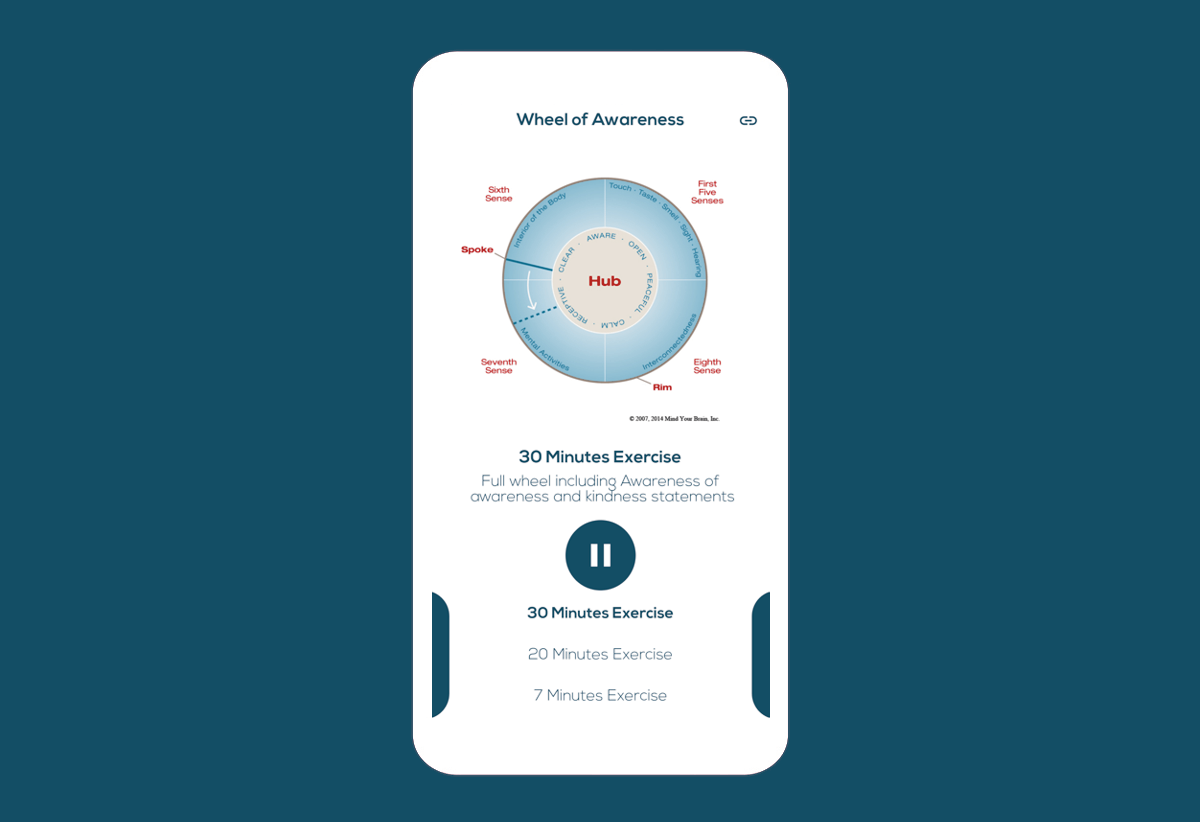
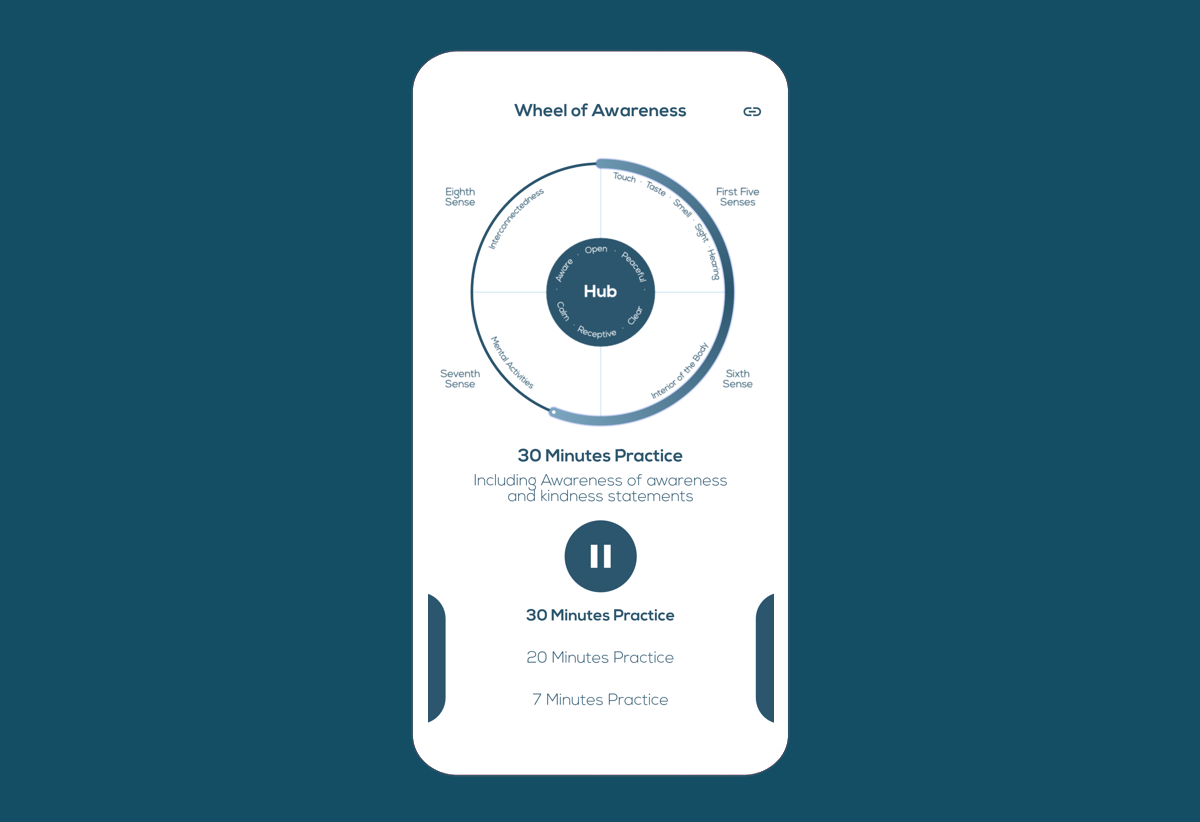
replaced wheel image

diff --git a/lib/main.dart b/lib/main.dart
@@ -60,10 +60,10 @@ class _HomeState extends State<HomePage> {
         initialValue: position,
         max: duration,
         appearance: CircularSliderAppearance(
-            size: (MediaQuery.of(context).size.width * 0.47),
+            size: 300,
             angleRange: 360,
             startAngle: 270,
-            customWidths: CustomSliderWidths(progressBarWidth: 8),
+            customWidths: CustomSliderWidths(progressBarWidth: 10, trackWidth: 3),
             customColors: CustomSliderColors(
                 trackColor: widget.primarySwatch,
                 progressBarColors: [Color(0xFF2C566E), Color(0xFFADD6F2)]),
@@ -87,9 +87,9 @@ class _HomeState extends State<HomePage> {
                 Center(
                   child: Container(
                     child: Padding(
-                      padding: const EdgeInsets.fromLTRB(3,31,10,0),
+                      padding: const EdgeInsets.all(10),
                       child: Image.asset(
-                        "assets/woa.jpg",
+                        "assets/wheel_of_awareness.png",
                         fit: BoxFit.cover,
                       ),
                     ),
@@ -98,11 +98,11 @@ class _HomeState extends State<HomePage> {
                 Center(
                   child: Container(
                     child: Padding(
-                      padding: const EdgeInsets.all(0),
+                      padding: const EdgeInsets.all(10),
                       child: StreamBuilder<Duration>(
                         stream: _player.durationStream,
                         builder: (context, snapshot) {
-                          final duration = snapshot.data ?? Duration.zero;
+                          final duration = snapshot.data ?? Duration(seconds: 360);
                           return StreamBuilder<Duration>(
                             stream: _player.positionStream,
                             builder: (context, snapshot) {

diff --git a/README.md b/README.md
@@ -9,14 +9,16 @@ App for the Wheel of Awareness practice
 - play 30min, 20min, or 7min wheel
 - play in background
 - link to website
+- circular seekbar
+- replace wheel image
 
 ## Todo
 
-- replace wheel image
 - breath awareness exercise
 - Cutted full wheel
 
 ## Copyright
 
-All mp3 and jpg files in the assets folder are available at and belong to https://drdansiegel.com/wheel-of-awareness/ (last checked 27.02.21).
+All mp3 files in the assets folder are available at and belong to https://drdansiegel.com/wheel-of-awareness/ (last checked 27.02.21).
+Design is based on https://github.com/devefy/Flutter-Music-Player-UI/.
 If any owner of the used resources is unhappy, please take your time to contact me and I will remove them.
